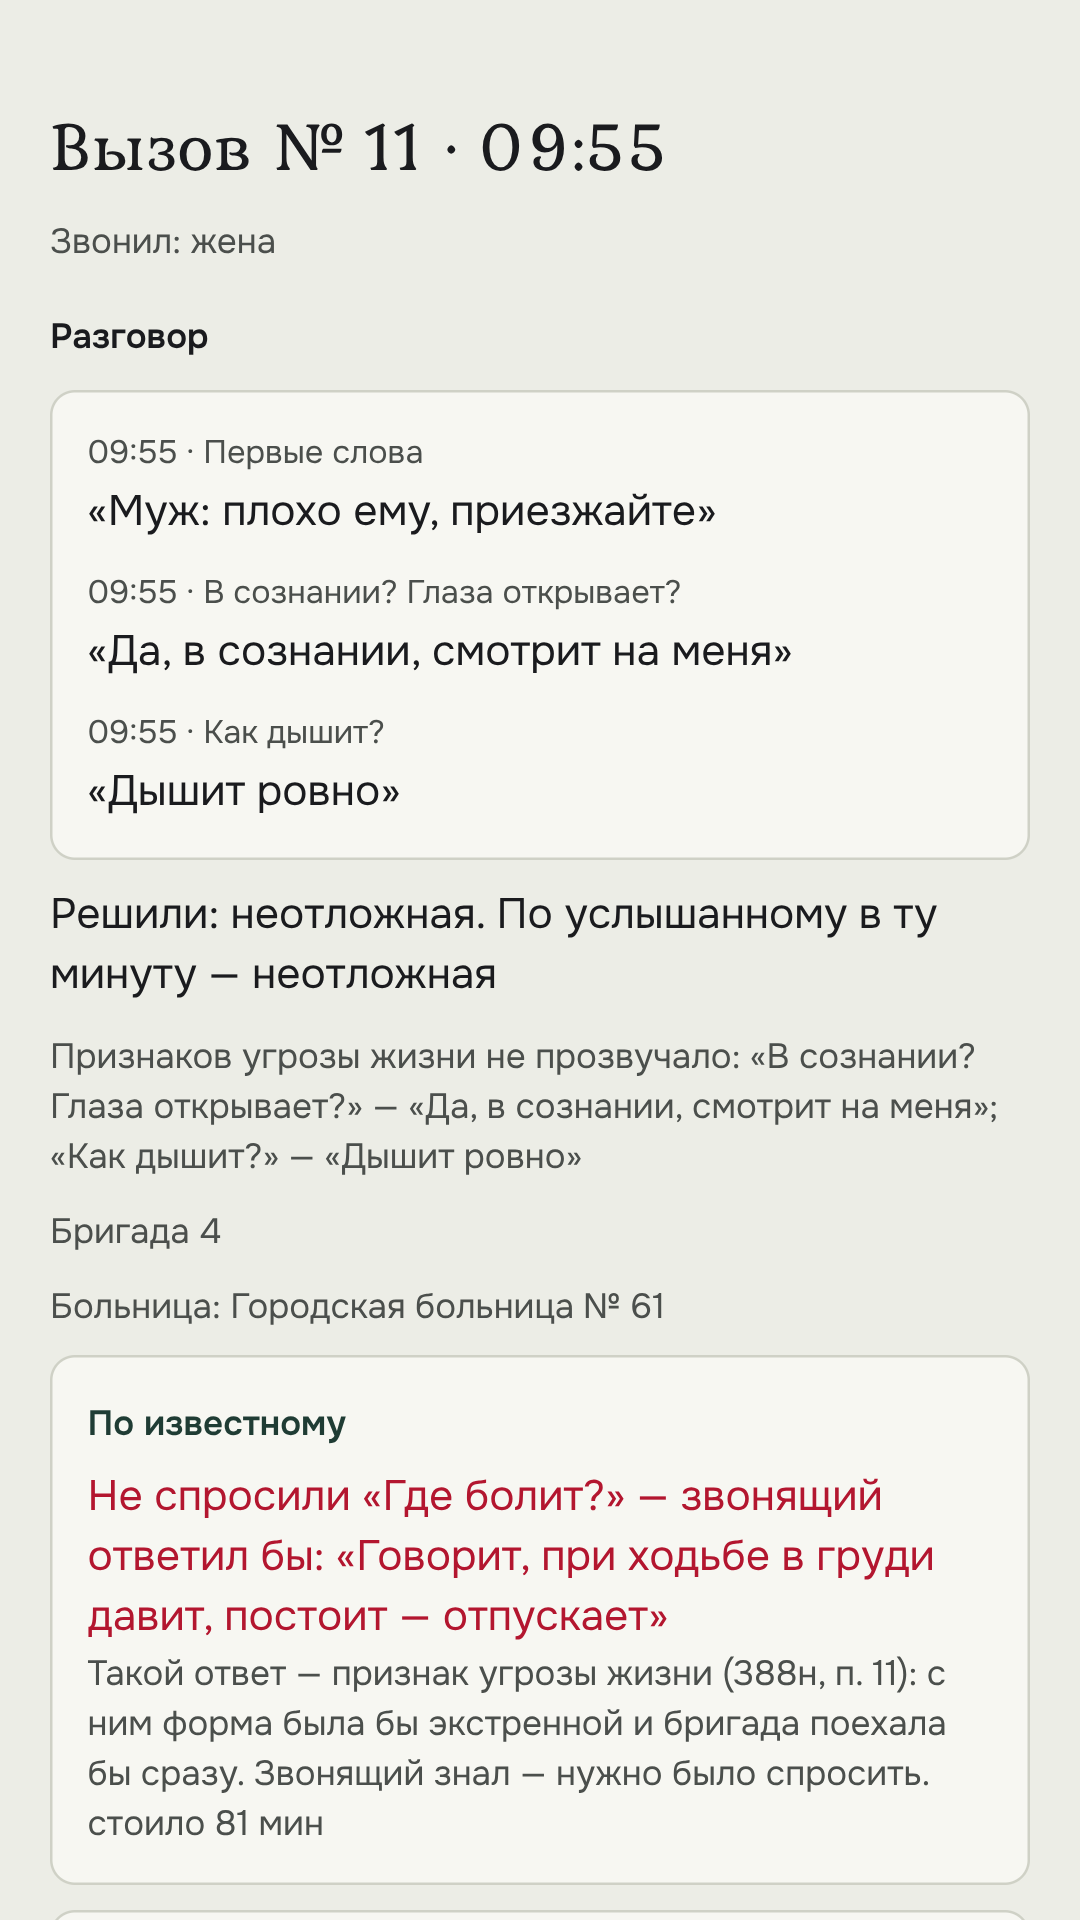
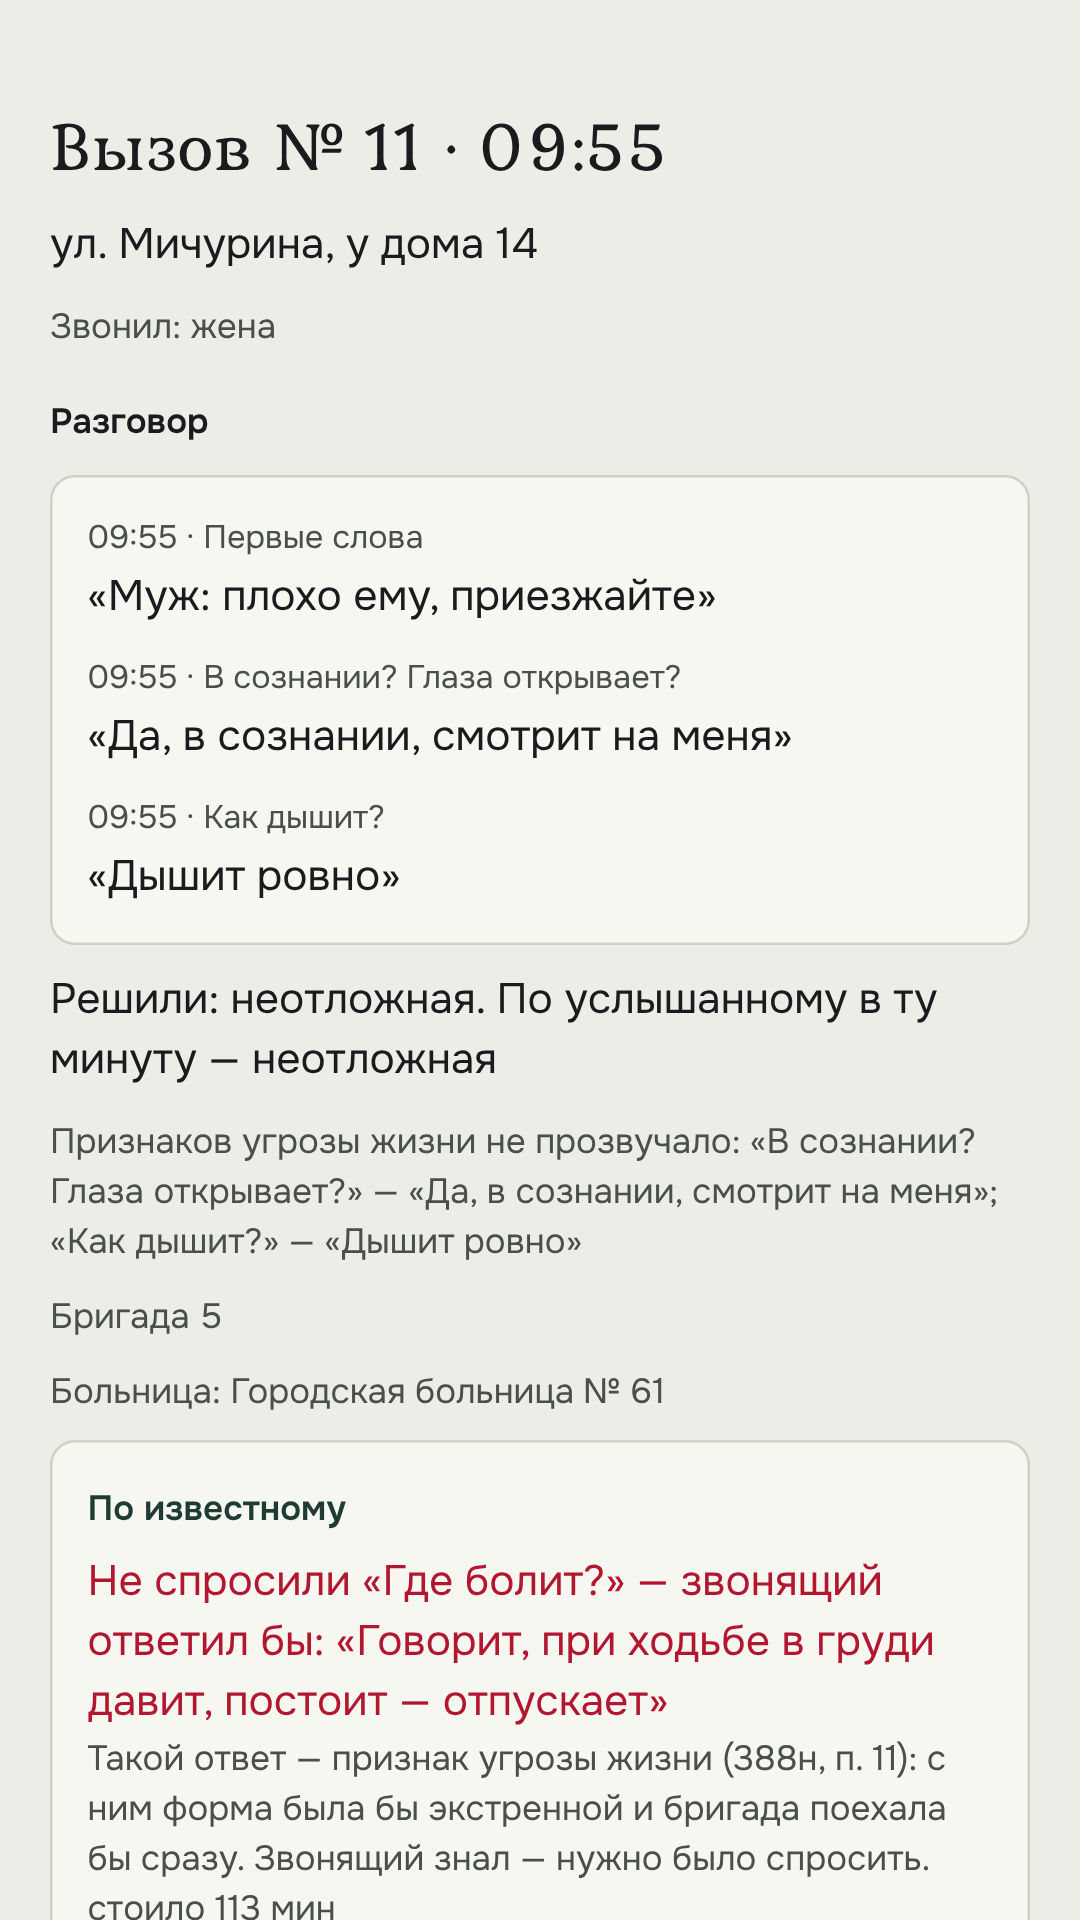
Предзаказ: снимки с адресом вызова и новыми кадрами Blender (0.29.0–0.30.0)
- Снимки пересняты на main с #61 и #62; третий — «pult-waiting» (окно «Кого послать» с адресом).
- tools/store/shots.ts ищет кадры сценария по имени без номера: номера сдвинулись, когда сценарий изменился.
- Тексты: адрес вызова — уже в игре, из «в работе» убран.

Claude-Session: https://claude.ai/code/session_01FnRrhwdtkVKEUuTF9mmFz1

Changed region(s): [[0.0306, 0.125, 0.9167, 1.0], [0.3667, 0.125, 0.4583, 0.1562]]

diff --git a/tools/store/shots.ts b/tools/store/shots.ts
@@ -3,9 +3,10 @@
 //
 //   NODE_PATH=/opt/node22/lib/node_modules bun tools/store/shots.ts
 //
-// Список кадров — SHOTS ниже: имя кадра сценария → имя в store/screenshots/ru/. Подписи и описания — store/site/page.*.md.
+// Список кадров — SHOTS ниже: имя кадра сценария без номера (номера сдвигаются, когда в сценарий добавляют кадры) →
+// имя в store/screenshots/ru/. Подписи и описания — store/site/page.*.md.
 import { spawnSync } from 'node:child_process';
-import { copyFileSync, mkdirSync, mkdtempSync } from 'node:fs';
+import { copyFileSync, mkdirSync, mkdtempSync, readdirSync } from 'node:fs';
 import { tmpdir } from 'node:os';
 import { join } from 'node:path';
 
@@ -13,14 +14,14 @@ const ROOT = join(import.meta.dir, '..', '..');
 const OUT = join(ROOT, 'store', 'screenshots', 'ru');
 
 export const SHOTS: [string, string][] = [
-  ['08-call', '01-call.png'],
-  ['10-call-crews', '02-crews.png'],
-  ['18-crew-card-onsite', '03-map.png'],
-  ['19-review', '04-report.png'],
-  ['21-call-review', '05-call-review.png'],
-  ['22-station', '06-station.png'],
-  ['34-week-done', '07-week.png'],
-  ['27-desk', '08-desk.png'],
+  ['call', '01-call.png'],
+  ['call-crews', '02-crews.png'],
+  ['pult-waiting', '03-map.png'],
+  ['review', '04-report.png'],
+  ['call-review', '05-call-review.png'],
+  ['station', '06-station.png'],
+  ['week-done', '07-week.png'],
+  ['desk', '08-desk.png'],
 ];
 
 const tmp = mkdtempSync(join(tmpdir(), 'dispatcher-shots-'));
@@ -30,5 +31,10 @@ const run = spawnSync('bun', [join(ROOT, 'tools', 'e2e', 'browser.ts')], {
 });
 if (run.status !== 0) process.exit(run.status ?? 1);
 mkdirSync(OUT, { recursive: true });
-for (const [from, to] of SHOTS) copyFileSync(join(tmp, `${from}.png`), join(OUT, to));
+const files = readdirSync(tmp);
+for (const [from, to] of SHOTS) {
+  const found = files.filter(f => f.replace(/^\d+-/, '') === `${from}.png`);
+  if (found.length !== 1) throw new Error(`кадр «${from}»: найдено ${found.length}`);
+  copyFileSync(join(tmp, found[0]), join(OUT, to));
+}
 console.log(`store/screenshots/ru: ${SHOTS.length} снимков`);

diff --git a/store/site/page.ru.md b/store/site/page.ru.md
@@ -17,7 +17,7 @@ shots:
     alt: "Экстренный вызов: список свободных бригад с временем доезда, первая — ближайшая"
   - file: screenshots/ru/03-map.png
     caption: Пульт и карта
-    alt: "Пульт диспетчера: карта Нижнего Новгорода, карточка бригады на месте вызова — сколько ещё пробудет и на сколько вызовов хватит укладки; внизу — ждущие вызовы"
+    alt: "Пульт диспетчера: карта Нижнего Новгорода, окно «Кого послать на вызов № 3» с адресом — набережная Волжская, дом 10; внизу — ждущий экстренный вызов"
   - file: screenshots/ru/04-report.png
     caption: Разбор смены
     alt: "Итог смены: экстренные с доездом в норму, главная ошибка — какой вопрос стоило задать и во что это обошлось"
@@ -75,5 +75,5 @@ facts:
 загруженными мостами и длинная ночь субботы. Между сменами — станция: фонд из итогов смен, табель бригад, укладки и
 закупки. После недели открывается «Свободная смена».
 
-В работе — второй район города и вторая неделя, адрес в карточке вызова, мигалки бригад на карте и «Свободная смена» с
+В работе — второй район города и вторая неделя, мигалки бригад на карте и «Свободная смена» с
 выбором района. Игра выйдет в RuStore для Android, без интернета и регистрации.

diff --git a/store/README.md b/store/README.md
@@ -29,7 +29,7 @@
 
 1. `01-call.png` — разговор: звонит сын, вопросы по разделам, срочность внизу
 2. `02-crews.png` — экстренная — кого послать: бригады по времени доезда
-3. `03-map.png` — пульт: карта Нижнего Новгорода, бригада на месте вызова, ждущие вызовы
+3. `03-map.png` — пульт: карта Нижнего Новгорода, кого послать на ждущий вызов, адрес вызова
 4. `04-report.png` — разбор смены: главная ошибка и её цена
 5. `05-call-review.png` — разбор вызова: разговор и решение по услышанному
 6. `06-station.png` — станция между сменами: фонд, укладка, закупки
@@ -37,4 +37,4 @@
 8. `08-desk.png` — рабочее место диспетчера
 
 Кадры сняты сценарием браузера (`tools/e2e/browser.ts`) в окне 432 × 768 при плотности 2,5 — ровно 1080 × 1920, 9 : 16.
-Кадр 12 (пульт с бригадами) зависит от времени сценария и выходит разным, поэтому третий снимок — кадр 18. Кадр 23 сценария (письмо на станции) не годится: текст письма в узком окне наезжает на табель.
+Кадр 12 (пульт с бригадами) зависит от времени сценария и выходит разным, поэтому третий снимок — кадр «pult-waiting». Кадры ищутся по имени без номера: номера сдвигаются. Кадр 23 сценария (письмо на станции) не годится: текст письма в узком окне наезжает на табель.

diff --git a/docs/journal/2026-11.md b/docs/journal/2026-11.md
@@ -712,8 +712,9 @@
 - **Страница сайта** — `store/site/page.ru.md` и `page.en.md`, статус «В разработке»; сайт подхватит её после
   `tools/games.json` в `Nefeste/gornitsagames` (отдельный PR там же убирает карточку «В планах»).
 - Цена и возраст в карточке не названы: деньги — #46, возраст — до выпуска.
-- Снимки и баннер сняты с кадрами Blender из ветки `claude/visual-fixes-2` (гарнитура на подставке, звонящие с телефоном
-  у уха): владелец указал, что левый наушник не на месте, — это исправлено там. Сами кадры в этот PR не входят.
+- Снимки и баннер — с кадрами Blender 0.30.0 (#62: гарнитура на подставке, звонящие с телефоном у уха; владелец
+  указал, что левый наушник не на месте, — исправлено там) и с адресом вызова 0.29.0 (#61). Кадры сценария
+  `tools/store/shots.ts` ищет по имени без номера: номера сдвигаются, когда в сценарий добавляют кадры.
 
 ### 22.11.2026 — правки кадров Blender по игре владельца: рука с телефоном, кадр звонящего, гарнитура
 

diff --git a/store/listing.ru.md b/store/listing.ru.md
@@ -26,6 +26,7 @@
 • Звонит не больной, а человек рядом: дочь, сосед, прохожий. Каждый знает своё, кто-то путается, кто-то отвечает «не знаю».
 • Каждый вопрос стоит минут смены. Спросить всё нельзя — нужно спросить то, что меняет решение.
 • Срочность — экстренная, неотложная или без выезда. Можно и передать вызов врачу поликлиники.
+• У каждого вызова — настоящий адрес: улица и дом из OpenStreetMap.
 
 НАСТОЯЩИЙ ГОРОД
 • Нижний Новгород: улицы, реки и мосты — из OpenStreetMap. Через Оку — только по мостам, вечером дороги медленнее, ночью быстрее.
@@ -49,7 +50,7 @@
 
 ЧТО ЕЩЁ В РАБОТЕ
 • Второй район города и вторая неделя.
-• Адрес в карточке вызова и мигалки бригад на карте.
+• Мигалки бригад на карте.
 • «Свободная смена» с выбором района.
 
 Это игра. Если нужна помощь — звоните 103 или 112.

diff --git a/store/site/page.en.md b/store/site/page.en.md
@@ -17,7 +17,7 @@ shots:
     alt: "An emergency call: free crews listed by travel time, the nearest first"
   - file: screenshots/ru/03-map.png
     caption: Desk and map
-    alt: "The dispatcher's desk: a map of Nizhny Novgorod and a crew card on site — how long it will stay and how many calls its kit lasts; waiting calls below"
+    alt: "The dispatcher's desk: a map of Nizhny Novgorod, a «who to send to call 3» window with the street address; a waiting emergency call below"
   - file: screenshots/ru/04-report.png
     caption: Shift review
     alt: "End of shift: emergencies reached in time, the main mistake — which question was worth asking and what it cost"
@@ -72,5 +72,5 @@ guidelines. There is no first-aid advice and no doses in the game, and no blood 
 ## Done and in progress
 
 «The first week» is done: seven shifts in order, a station between shifts and a free shift after the week. In progress:
-a second district and a second week, the address on the call card, flashing lights on the map, and a free shift with a
+a second district and a second week, flashing lights on the map, and a free shift with a
 choice of district. The game will come out in RuStore for Android, offline and without sign-up.
